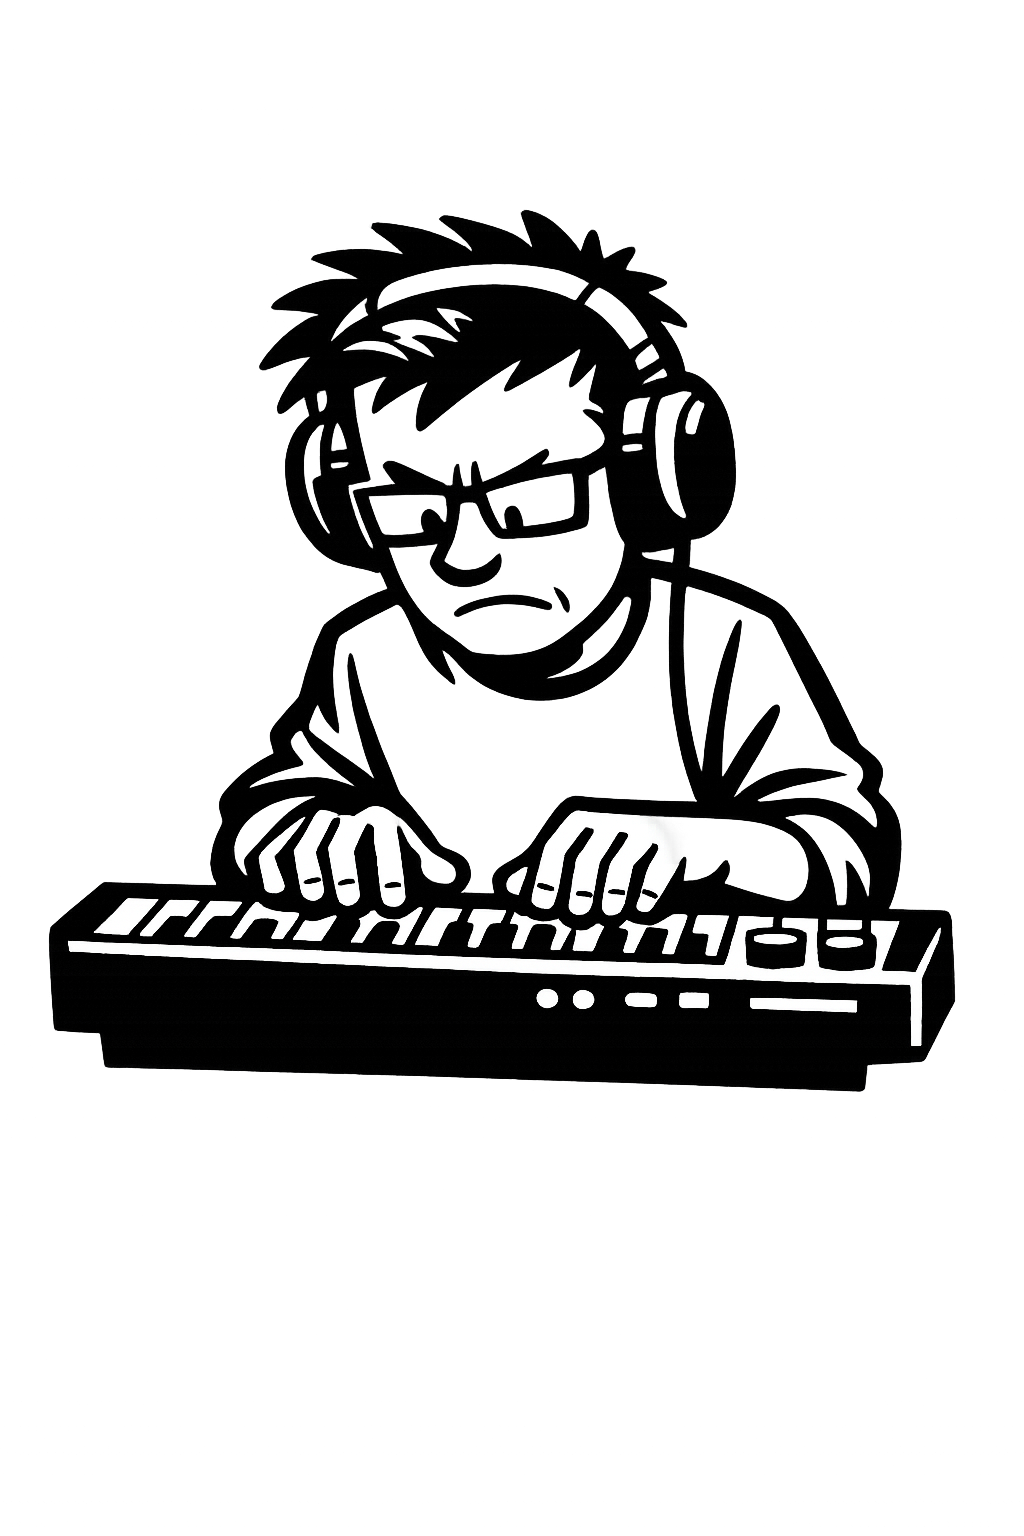
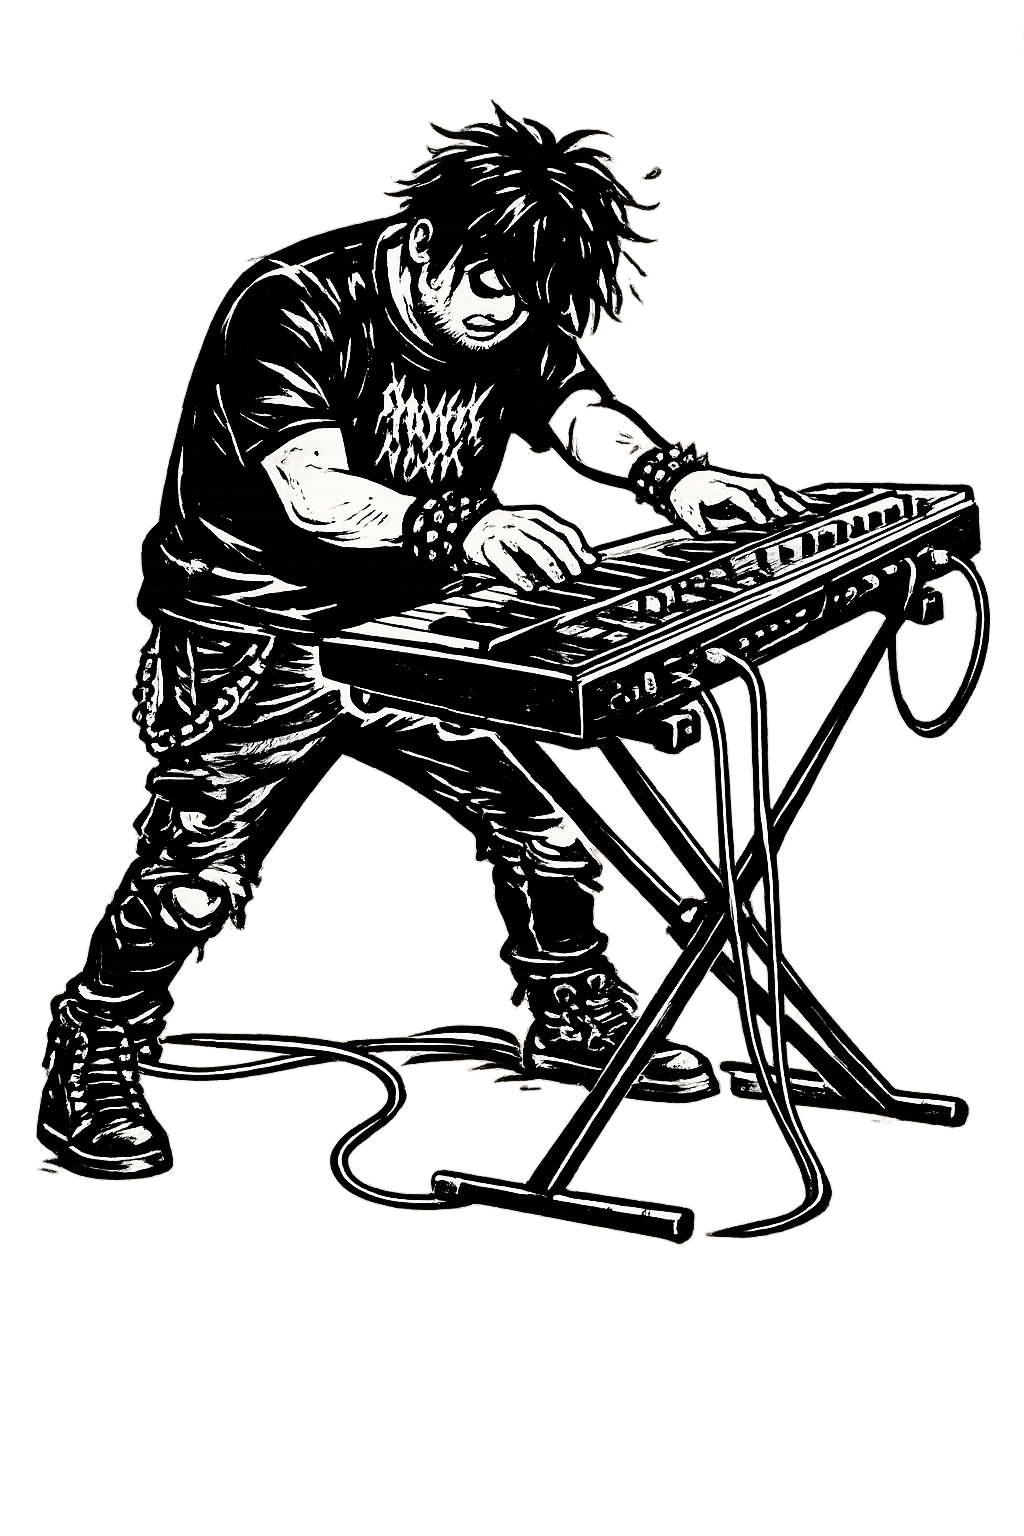
feat: create additional events

Changed region(s): [[0.0312, 0.0625, 0.9688, 0.8125]]

diff --git a/game.js b/game.js
@@ -196,6 +196,12 @@ function newGame(bandName) {
     gearSponsorFired:       false,
     creativeBreakthroughFired: false,
     mentorshipFired:        false,
+    openingActFired:        false,
+    radioPlayFired:         false,
+    licensedFired:          false,
+    merchDealFired:         false,
+    scoutFired:             false,
+    lastAnniversaryWeek:    0,
     concertsPlayed: 0,
     songsWritten:   0,
     bestSongScore:  0,
@@ -243,6 +249,7 @@ function tryLoad() {
     gs   = data.gs;
     _uid = data._uid || 100;
     if (!gs.rival) gs.rival = { name: RIVAL_NAMES[rand(0, RIVAL_NAMES.length - 1)], followers: Math.max(500, gs.week * 80) };
+    if (gs.lastAnniversaryWeek === undefined) gs.lastAnniversaryWeek = gs.week - (gs.week % 10);
     return true;
   } catch (e) { return false; }
 }
@@ -628,6 +635,129 @@ function checkEvents() {
     } else {
       gs.lowChemWeeks = 0;
     }
+  }
+
+  // Opening act: fires once, followers 5k–200k
+  if (!gs.openingActFired && gs.followers >= 5000 && gs.followers < 200000) {
+    gs.openingActFired = true;
+    queueEvent({
+      badge: 'OPPORTUNITY',
+      title: 'OPENING ACT OFFER',
+      text: 'A touring band picks you to open their show. Big room, new ears. +8,000 followers, +$300.',
+      isBad: false,
+      effect() { gs.followers += 8000; gs.money += 300; },
+    });
+  }
+
+  // Radio play: fires once, original with quality ≥ 65 and 5+ concerts played
+  if (!gs.radioPlayFired && gs.concertsPlayed >= 5) {
+    const radioSong = gs.songs.find(s => s.type === 'original' && s.quality >= 65);
+    if (radioSong) {
+      gs.radioPlayFired = true;
+      queueEvent({
+        badge: 'GOOD NEWS',
+        title: 'RADIO PLAY',
+        text: `"${radioSong.title}" got picked up by a local station. People are hearing you. +12,000 followers.`,
+        isBad: false,
+        effect() { gs.followers += 12000; },
+      });
+    }
+  }
+
+  // Sync license: fires once, best song score ≥ 80
+  if (!gs.licensedFired && gs.bestSongScore >= 80) {
+    const licensedSong = gs.songs.find(s => s.quality >= 80);
+    const licTitle = licensedSong ? `"${licensedSong.title}"` : 'One of your songs';
+    gs.licensedFired = true;
+    queueEvent({
+      badge: 'DEAL',
+      title: 'SYNC LICENSE',
+      text: `${licTitle} got licensed for a TV ad. You didn't even know it was that good. +$800.`,
+      isBad: false,
+      effect() { gs.money += 800; },
+    });
+  }
+
+  // Merch windfall: fires once, followers ≥ 25k
+  if (!gs.merchDealFired && gs.followers >= 25000) {
+    gs.merchDealFired = true;
+    queueEvent({
+      badge: 'CASH',
+      title: 'MERCH WINDFALL',
+      text: 'The online store sold out overnight. Someone with a big following posted your shirt. +$500.',
+      isBad: false,
+      effect() { gs.money += 500; },
+    });
+  }
+
+  // Label scout: fires once, followers ≥ 150k
+  if (!gs.scoutFired && gs.followers >= 150000) {
+    gs.scoutFired = true;
+    queueEvent({
+      badge: 'BUZZ',
+      title: 'LABEL SCOUT',
+      text: 'A major label scout showed up at your last show and took notes. The band is energised. Chemistry +10.',
+      isBad: false,
+      effect() { gs.chemistry = clamp(gs.chemistry + 10, 0, 100); },
+    });
+  }
+
+  // Band anniversary: every 10 weeks
+  if (gs.week % 10 === 0 && gs.week > gs.lastAnniversaryWeek) {
+    gs.lastAnniversaryWeek = gs.week;
+    queueEvent({
+      badge: 'MILESTONE',
+      title: `WEEK ${gs.week}`,
+      text: `${gs.week} weeks in. You're still here, still grinding. The band feels it. Chemistry +8.`,
+      isBad: false,
+      effect() { gs.chemistry = clamp(gs.chemistry + 8, 0, 100); },
+    });
+  }
+
+  // Gear stolen: 2% per week
+  if (Math.random() < 0.02) {
+    queueEvent({
+      badge: 'BAD NEWS',
+      title: 'GEAR STOLEN',
+      text: 'Someone broke into the rehearsal space. An amp is gone. −$200.',
+      isBad: true,
+      effect() { gs.money = Math.max(0, gs.money - 200); },
+    });
+  }
+
+  // Internet drama: 4% per week, 2+ members, followers > 5k
+  if (gs.members.length >= 2 && gs.followers > 5000 && Math.random() < 0.04) {
+    const culprit = gs.members[rand(0, gs.members.length - 1)];
+    queueEvent({
+      badge: 'DRAMA',
+      title: 'INTERNET DRAMA',
+      text: `${culprit.name} posted something and the internet did not take it well. −5,000 followers.`,
+      isBad: true,
+      effect() { gs.followers = Math.max(0, gs.followers - 5000); },
+    });
+  }
+
+  // Superfan: 1.5% per week, followers > 500
+  if (gs.followers > 500 && Math.random() < 0.015) {
+    const gain = rand(1000, 3000);
+    queueEvent({
+      badge: 'FAN LOVE',
+      title: 'SUPERFAN',
+      text: `Someone online is going absolutely feral over your music and dragging everyone they know to listen. +${fmtFollowers(gain)} followers.`,
+      isBad: false,
+      effect() { gs.followers += gain; },
+    });
+  }
+
+  // Food poisoning: 1% per week, 3+ members
+  if (gs.members.length >= 3 && Math.random() < 0.01) {
+    queueEvent({
+      badge: 'SETBACK',
+      title: 'FOOD POISONING',
+      text: 'The whole band ate at the same sketchy food truck. Everyone is out for a week.',
+      isBad: true,
+      effect() { gs.members.forEach(m => { if (m.injuredWeeks === 0) m.injuredWeeks = 1; }); },
+    });
   }
 
   // Win condition

diff --git a/CLAUDE.md b/CLAUDE.md
@@ -8,7 +8,7 @@ This file is also the canonical design document for the game. All formulas, econ
 
 ## Project overview
 
-A browser-based band management sim where the player grows a solo musician into a signed band. The game ends when followers reach 1,000,000 and a record label deal fires.
+**GET FAMOUS** — a browser-based band management sim where the player grows a solo musician into a signed band. The game ends when followers reach 1,000,000 and a record label deal fires. A rival band grows in parallel — if they hit 1M first, the player loses.
 
 **Stack:** plain HTML / JS / CSS, no build step, no frameworks. Opens directly in a browser.  
 **Save:** `localStorage`.
@@ -36,14 +36,16 @@ All game state lives in a single JS object and is serialised to `localStorage` o
 
 The player enters a band name before the game starts. This is the only setup screen.
 
-Key top-level fields: `week`, `money`, `followers`, `bandName`, `members[]`, `songs[]`, `chemistry`, `viralFired`, `lowChemWeeks` (per-member counter for the "member quits" trigger).
+Key top-level fields: `week`, `money`, `followers`, `bandName`, `members[]`, `songs[]`, `chemistry`, `rival` (name + followers), one-time event flags (see event table), `lowChemWeeks`, `lastAnniversaryWeek`.
 
 ### Week tick order
 
 1. Resolve player actions (train / concert / social activity / hire)
-2. Check and fire random events (see event table)
-3. Check win condition (followers ≥ 1,000,000 → label deal ending)
-4. Persist state to `localStorage`
+2. Tick rival band growth
+3. Check and fire random events (see event table)
+4. Check win condition (followers ≥ 1,000,000 → label deal ending)
+5. Check loss condition (rival followers ≥ 1,000,000 → beaten ending)
+6. Persist state to `localStorage`
 
 ---
 
@@ -274,31 +276,45 @@ New member's contribution needs to raise song scores by ≥3 points within ~10 s
 
 ### Event table
 
-| Event | Type | Effect | Trigger condition                                                    |
-|---|---|---|----------------------------------------------------------------------|
-| Local press feature | Good | +5,000 followers | followers 1,000–50,000                                               |
-| Gear sponsor | Good | Free instrument upgrade, unlocks T3 technical | any song score ≥ 70                                                  |
-| Creative breakthrough | Good | +20 songwriting for one member | any member songwriting ≥ 65                                          |
-| Viral moment | Good | +100,000 followers, +$400. Fires once per game only. | stage ≥ 60 + concert played that week                                |
-| Mentorship offer | Good | Unlocks T3 songwriting for all members | 3+ songs recorded, avg score ≥ 75                                    |
-| Band argument | Bad | Chemistry −15. No choice. | 8% chance per week (requires 2+ members)                             |
-| Member quits | Bad | Lose them permanently. Chemistry −20 for remaining members. | 10% chance per week once chemistry < 25 for 3+ consecutive weeks |
-| Song goes viral | Good | That song +3–5 quality, +75–150 followers | 1% chance per concert if an original song is on the setlist          |
-| Bad review | Bad | Followers −5,000 | 35% chance per concert if any song with score < 35 is on the setlist |
-| Injury | Bad | One member misses 1–4 weeks of training (random) | 0.5% chance per week per member |
-| **Label deal** | **Ending** | **Game over — you made it.** | **followers ≥ 1,000,000**                                            |
+| Event | Type | Once? | Effect | Trigger condition |
+|---|---|---|---|---|
+| Local press feature | Good | ✓ | +5,000 followers | followers 1,000–50,000 |
+| Gear sponsor | Good | ✓ | Unlocks T3 technical for all | any song score ≥ 70 |
+| Creative breakthrough | Good | ✓ | +20 songwriting for one member | any member songwriting ≥ 65 |
+| Viral moment | Good | ✓ | +100,000 followers, +$400 | stage ≥ 60 + concert played that week |
+| Mentorship offer | Good | ✓ | Unlocks T3 songwriting for all | 3+ songs recorded, avg score ≥ 75 |
+| Opening act offer | Good | ✓ | +8,000 followers, +$300 | followers 5,000–200,000 |
+| Radio play | Good | ✓ | +12,000 followers | original song quality ≥ 65 + 5+ concerts played |
+| Sync license | Good | ✓ | +$800 | best song score ≥ 80 |
+| Merch windfall | Good | ✓ | +$500 | followers ≥ 25,000 |
+| Label scout | Good | ✓ | Chemistry +10 | followers ≥ 150,000 |
+| Band anniversary | Good | per milestone | Chemistry +8 | every 10 weeks |
+| Song goes viral | Good | — | That song +3–5 quality, +75–150 followers | 1% chance per concert if original on setlist |
+| Superfan | Good | — | +1,000–3,000 followers | 1.5% chance per week, followers > 500 |
+| Band argument | Bad | — | Chemistry −15 | 8% chance per week (2+ members) |
+| Member quits | Bad | — | Lose member, Chemistry −20 | 10% chance per week if chemistry < 25 for 3+ consecutive weeks |
+| Bad review | Bad | — | Followers −5,000 | 35% chance per concert if any song with score < 35 is on setlist |
+| Injury | Bad | — | One member misses 1–4 weeks | 0.5% chance per week per member |
+| Gear stolen | Bad | — | −$200 | 2% chance per week |
+| Internet drama | Bad | — | −5,000 followers | 4% chance per week (2+ members, followers > 5,000) |
+| Food poisoning | Bad | — | All members injured 1 week | 1% chance per week (3+ members) |
+| **Label deal** | **Win** | ✓ | **Game over — you made it** | **followers ≥ 1,000,000** |
+| **Rival signed** | **Loss** | ✓ | **Game over — beaten** | **rival followers ≥ 1,000,000** |
 
 ### Event implementation notes
 - Check events at the end of each week tick, after all other state updates
-- Each event should only fire once unless noted (band argument and injury are repeatable)
-- Viral moment: use a `viralFired` flag in state, never fires twice
-- Member quits: track consecutive low-chemistry weeks per member in state
+- One-time events use boolean flags in state (e.g. `viralFired`, `openingActFired`, etc.)
+- `lastAnniversaryWeek` tracks the last week a milestone anniversary fired
+- Member quits: track consecutive low-chemistry weeks in `lowChemWeeks`
+- Rival: grows each week via `tickRival()` — ~4.5% compound growth + rand(30,100) base, 5% chance of breakout week (×1.6 gain). Reaches 1M in ~75 weeks.
 
 ---
 
-## Win condition
+## Win / loss conditions
 
-Followers ≥ 1,000,000 triggers the "Label deal" event as an interrupting popup. It's the ending — display a closing screen summarising the band's journey (weeks played, songs recorded, best song, total followers gained). No continue after this.
+**Win:** followers ≥ 1,000,000 → "Label deal" popup → **SIGNED.** end screen (weeks, songs, best song, followers, band size). No continue.
+
+**Loss:** rival followers ≥ 1,000,000 first → "Too Late" popup → **BEATEN.** loss screen (weeks, your followers vs rival's). TRY AGAIN button.
 
 ---
 
@@ -331,14 +347,20 @@ Followers ≥ 1,000,000 triggers the "Label deal" event as an interrupting popup
 - Body / stats: monospace or typewriter-style (e.g. `Courier New`)
 
 ### Layout
-- The **main viewscreen** (largest, central panel) displays the **rehearsal room** — all band members are visible inside the room. Below each member is a panel showing their chosen weekly action. The rehearsal room choice for the week is also set here.
+- The **main viewscreen** (largest, central panel) displays the **rehearsal room** — background image `assets/rehearsal_room.png`, band member avatars from `assets/` by role. Below each member is a panel showing their chosen weekly action. The rehearsal room choice for the week is also set here.
 - Secondary panels surround it for stats, setlist, economy, and the band slot (concert/record)
 - **Left:** the setlist panel. Shows the current setlist (up to 20 songs). Below it, an expandable section lists all available songs not currently in the setlist. Songs are added/removed via drag-and-drop between the two lists.
 - **Bottom-right:** the band slot panel. Choose a venue to play a concert, or choose a social activity instead. Confirming either option advances the week — this is the implicit "end week" action, never labelled as such
-- **Top-left:** band name, with a "Hire member" button below it
-- **Top-center:** week counter
+- **Top-left:** band name, hire member button, and media player (play/pause for `Get Famous.mp3`)
+- **Top-center:** week counter + rival band follower display (turns red when rival is ahead)
 - **Member skill stats:** not displayed directly. Hovering over a member shows a tooltip with approximate descriptions per skill — never raw numbers.
 - **Top-right corner:** a comic-drawn smartphone displaying a fictional social media app — the follower counter is the primary element, with the money counter shown below it
+
+### Setup screen
+- Shows `assets/get_famous_logo.png` (use `mix-blend-mode: multiply` + `filter: brightness(1.4) contrast(4)` to remove baked-in checkered background)
+- Video frame below logo cycles `assets/rock_show1.mp4` → `assets/rock_show2.mp4` in a loop, muted
+- `Get Famous.mp3` autoplays (triggered via video `play` event as browser autoplay bypass)
+- Band name input + START THE GRIND button
 
 ### Texture & detail
 - Halftone dot pattern on panel backgrounds: pure CSS `radial-gradient`, no images
